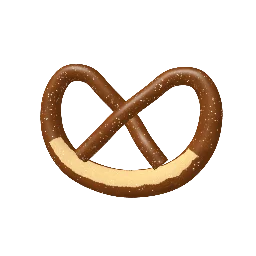
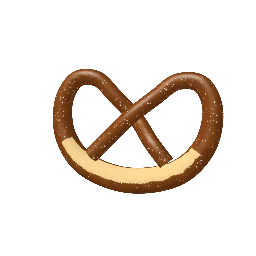
Phase E5: the pretzel twists like a knot in one piece (r3)
The r2 contortion carried each point along a new centre line, so the
rope's ends lifted off the belly they rest on and the pretzel looked
broken. Now one smooth twist of the whole shape wrings its sides
opposite ways, turns the top against the bottom and folds the loops a
little towards the viewer, so every crossing stays joined.

Claude-Session: https://claude.ai/code/session_01285XetUMhVKUe652sbTc17

Changed region(s): [[0.1562, 0.25, 0.875, 0.7812], [0.8125, 0.5625, 0.8438, 0.625]]

diff --git a/src/packs/food.js b/src/packs/food.js
@@ -2549,10 +2549,10 @@ export const RECIPES = {
   pretzel: {
     controls: [{ key: "twist", label: "Twist", type: "pulse", ease: PRETZEL_SECS }],
     action: { key: "twist", label: "Twist" },
-    // A tap contorts the pretzel like a knot: its loops swirl round and rise
-    // out of its plane, one up and one down, and the two sides turn opposite
-    // ways. Let go, it springs back past its shape into the opposite
-    // contortion and wobbles to a stop, like a twanged spring.
+    // A tap twists the pretzel like a knot, all in one piece: its two sides
+    // wring opposite ways and its loops fold a little towards you. Let go, it
+    // springs back a little past its shape into the opposite twist and
+    // wobbles to a stop, like a twanged spring.
     drive(t, c, out) {
       const s = since(c.twist, PRETZEL_SECS);
       let m = 0;
@@ -2591,45 +2591,28 @@ export const RECIPES = {
       const shape = k.tube(P, rad, { caps: true, samples: 480, grid: 110 });
       const q = quatEuler(-16, 0, 0);
       const qi = [-q[0], -q[1], -q[2], q[3]];
-      // The pretzel contorted like a knot: its loops swirl round its middle
-      // and rise out of its plane (one up, one down), and the two sides turn
-      // opposite ways about the upright. A negative channel contorts it the
-      // other way.
-      const mid = [0, -0.08, 0];
-      const U = (t) => {
-        const p = P(t);
-        const a = 0.42 * Math.sin(TAU * 2 * t);
-        const [dx, dy] = [p[0] - mid[0], p[1] - mid[1]];
-        const x = mid[0] + dx * Math.cos(a) - dy * Math.sin(a);
-        const y = mid[1] + dx * Math.sin(a) + dy * Math.cos(a);
-        const z = p[2] + 0.48 * Math.sin(TAU * (2 * t + 0.25));
-        const psi = 0.6 * Math.tanh(x / 0.35);
-        return [x * Math.cos(psi) + z * Math.sin(psi), y, -x * Math.sin(psi) + z * Math.cos(psi)];
+      // The pretzel twisted like a knot: its two sides wring opposite ways
+      // about its width, the top turns against the bottom, and the loops fold
+      // a little towards you. It is one smooth twist of the whole shape, so
+      // wherever the rope crosses or rests on itself it stays joined. A
+      // negative channel twists it the other way.
+      const y0 = -0.08;
+      const twisted = (p) => {
+        let [x, y, z] = quatRotate(qi, p);
+        const w = 0.42 * Math.tanh(x / 0.45);
+        [y, z] = [y0 + (y - y0) * Math.cos(w) - z * Math.sin(w), (y - y0) * Math.sin(w) + z * Math.cos(w)]; // prettier-ignore
+        const g = 0.3 * (y - y0);
+        [x, y] = [x * Math.cos(g) - (y - y0) * Math.sin(g), y0 + x * Math.sin(g) + (y - y0) * Math.cos(g)]; // prettier-ignore
+        const a = x / 1.7;
+        [x, z] = [(1.7 - z) * Math.sin(a), 1.7 - (1.7 - z) * Math.cos(a)];
+        return quatRotate(q, [x, y, z]);
       };
-      const tangent = (f, t) => unit(sub(f(Math.min(1, t + 1e-3)), f(Math.max(0, t - 1e-3))));
-      const frame = (f, t) => {
-        const T = tangent(f, t);
-        const B = unit(sub([0, 0, 1], mul(T, T[2])));
-        return { T, B, N: cross(B, T) };
-      };
-      // A point on the pretzel (recipe coordinates) and where it goes: the
-      // same place across the rope, at the same point along the knot.
-      const contorted = (p, t) => {
-        const lp = quatRotate(qi, p);
-        const r = frame(P, t);
-        const d = sub(lp, P(t));
-        const [dn, db, dt] = [dot(d, r.N), dot(d, r.B), dot(d, r.T)];
-        const u = frame(U, t);
-        const to = add(U(t), add(add(mul(u.N, dn), mul(u.B, db)), mul(u.T, dt)));
-        return quatRotate(q, to);
-      };
-      const along = (c) => c.t ?? (quatRotate(qi, c.p)[0] < 0 ? 0 : 1);
       k.add(shape, {
         quat: q,
         flat: 0.4,
         interior: 0.1,
         core: "#f0d4a0",
-        to: (c) => contorted(c.p, along(c)),
+        to: (c) => twisted(c.p),
         channel: 0,
         color: (c) => {
           // The scored belly splits open along its top, showing pale dough.
@@ -2660,7 +2643,7 @@ export const RECIPES = {
           n: dw,
           color: mix("#ffffff", "#e8e4dc", rand()),
           opacity: 1,
-          to: contorted(p, t),
+          to: twisted(p),
           channel: 0,
         };
       });

diff --git a/docs/handoff/E5.md b/docs/handoff/E5.md
@@ -45,7 +45,9 @@ https://claude.ai/code/session_01285XetUMhVKUe652sbTc17, branch `claude/nifty-ba
 ryanjosephkamp/splashery#35). The owner's marks on the Toy Plan page were all "yes" with no notes.
 Clips are on the Effect review page (lane E5, cards `e5-<toy id>`). The owner's marks (2026-09-26):
 14 looked right; the bananas, the croissant and the pretzel needed work and were redone the same day
-(cards `e5-banana-r2`, `e5-croissant-r2`, `e5-pretzel-r2`), waiting for marks.
+(cards `e5-banana-r2`, `e5-croissant-r2`, `e5-pretzel-r2`). The bananas and the croissant r2 were
+marked good; the pretzel r2 still came apart (its ends lifted off the belly), so it was redone again
+(card `e5-pretzel-r3`), waiting for a mark.
 
 | Toy        | Tap                                                                                              |
 | ---------- | ------------------------------------------------------------------------------------------------ |
@@ -54,7 +56,7 @@ Clips are on the Effect review page (lane E5, cards `e5-<toy id>`). The owner's 
 | Lollipop   | The swirl whirls up to nearly three turns a second and slows (3 s)                               |
 | Candy cane | Each cane twists, snaps, the top half springs clear with sugar chips, then mends (2.9 s)         |
 | Macarons   | The two in front hop onto the stack (a tower of five sways), then hop back (3.5 s)               |
-| Pretzel    | Contorts like a knot, springs into the opposite contortion and wobbles to rest (3.8 s)           |
+| Pretzel    | Twists like a knot in one piece, springs into the opposite twist and wobbles to rest (3.8 s)     |
 | Croissant  | Sliced open: the top lifts like a lid, a pat of butter melts inside, it closes (3.3 s)           |
 | Sushi      | Chopsticks lift a roll, dip it twice in a soy dish, put it back and lie down (4.7 s)             |
 | Taco       | Snaps in half, the halves swing open showing the filling, bits spill and hop back (3.1 s)        |
@@ -91,10 +93,13 @@ pieces go.
   swap while it flies fast; the watermelon's knife is built once per cut.
 - The apple is a toggle with a two-part story: its drive() remembers which way the toggle is going
   (mem), so the bite plays on the way up and the worm and the healing on the way down.
-- The pretzel's contortion is one morph: each splat keeps its place across the rope (a frame at its
-  point along the pretzel, carried to the same point along the contorted knot); the channel runs
-  negative for the opposite contortion as it springs back. (Its first version, undoing itself into a
-  U of rope, was marked "Needs work": the owner wants knot-like twisting, not undoing.)
+- The pretzel's twist is one morph made by one smooth twist of space (its sides wring opposite ways
+  about its width, the top turns against the bottom, the loops fold towards you), so every splat
+  goes where its neighbours go and the rope stays joined where it crosses or rests on itself; the
+  channel runs negative for the opposite twist as it springs back. Its first version (undoing into a
+  U of rope) and its second (each point carried along a new centre line) were marked "Needs work":
+  the second moved the rope's ends away from the belly they rest on, so it looked broken. Lesson: to
+  bend one piece that touches itself, move space, not the curve.
 - The croissant's first version (rising in an oven glow and shedding flakes) was marked "Needs
   work"; it now opens along its middle like a roll (the top is a part that lifts and tips back),
   with cut faces showing the layers and a pat of butter that melts on a morph channel.
@@ -119,7 +124,8 @@ pieces go.
 
 - PACKS.md lessons: "built open, hidden when closed" (the kiwi) with lighting from the rest pose;
   "two copies swap while fast" (the avocado stone); toggles with a two-part story (the apple's
-  direction memory); a morph that carries a tube's cross-section to a new centre line (the pretzel).
+  direction memory); a smooth twist of space for bending one piece that touches itself (the
+  pretzel), not a new centre line.
 - Backlog (engine): `k.roundedBox` with a high power (7) leaves a thin band with no splats across
   its middle (the sushi board on main showed a dark stripe). E5 switched its board and tray to
   `k.box`; other toys using high-power rounded boxes may have it too.

diff --git a/docs/TOY-PLAN.md b/docs/TOY-PLAN.md
@@ -1162,9 +1162,10 @@ Proposals below are suggestions; the owner may change them.
 - **Pretzel** (`pretzel`). Now: tap: Twist. Plan: keep.
   - Owner: Some sort of twisting, like the knots.
   - Effect: Untwists into a rope and twists back.
-  - Improved: E5 (r2, after the owner's note): the pretzel contorts like a knot: its loops swirl
-    round and rise out of its plane, one up and one down, and its sides turn opposite ways; let go,
-    it springs back past its shape into the opposite contortion and wobbles to a stop (about 3.8 s).
+  - Improved: E5 (r3, after the owner's notes): the pretzel twists like a knot, all in one piece:
+    its two sides wring opposite ways and its loops fold a little towards you, and wherever the rope
+    crosses or rests on itself it stays joined; let go, it springs a little past its shape into the
+    opposite twist and wobbles to a stop (about 3.8 s).
   - Sound: Doughy stretch.
 - **Croissant** (`croissant`). Now: tap: Open it. Plan: keep.
   - Owner: Must differ from the real croissant.
